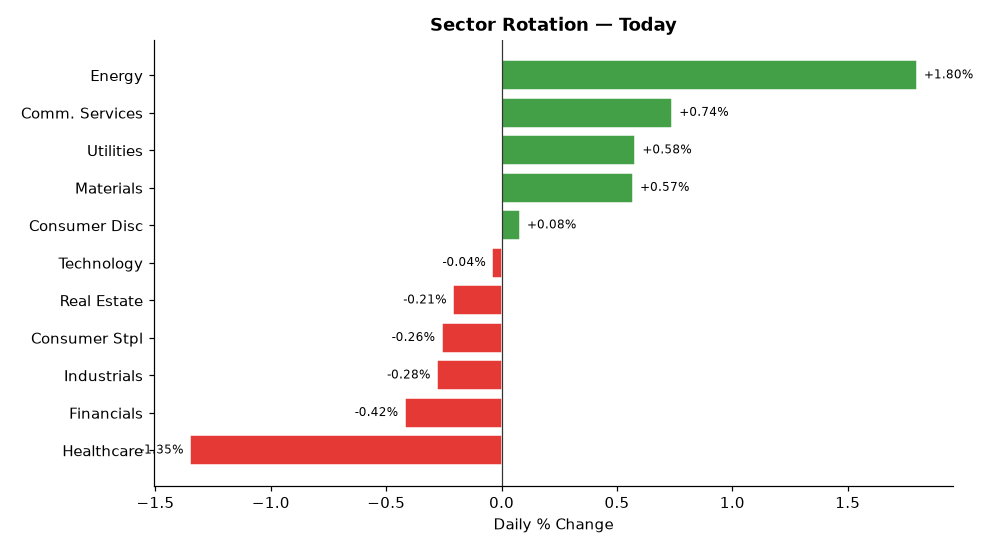
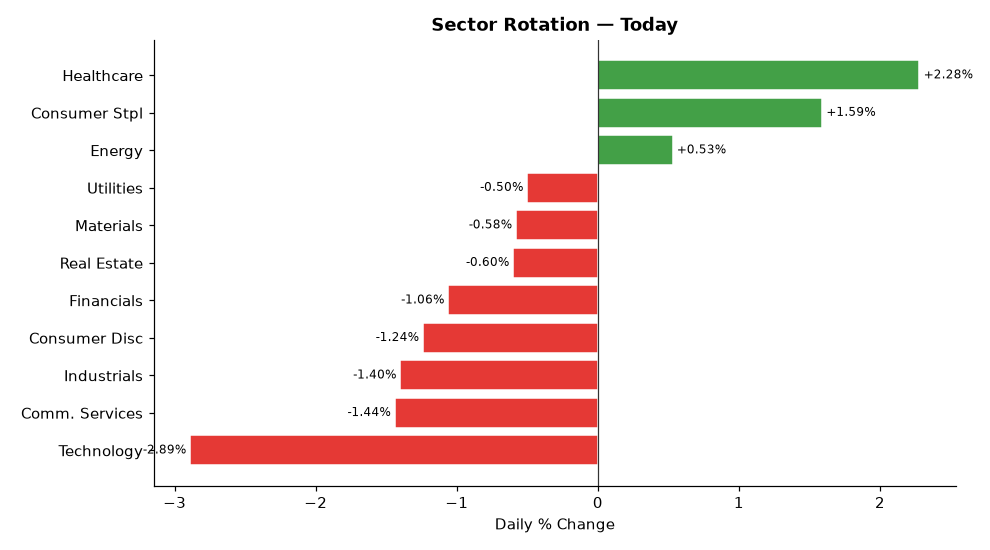
deploy: b7fadf5b06deb90e7ebb92f278722414bdd9750d

diff --git a/index.html b/index.html
@@ -4,7 +4,7 @@
   <meta charset="UTF-8">
   <meta name="viewport" content="width=device-width,initial-scale=1">
   <meta http-equiv="Cache-Control" content="no-cache,no-store,must-revalidate">
-  <title>Stock Breakout Screener — 2026-10-14 04:18</title>
+  <title>Stock Breakout Screener — 2026-10-14 17:45</title>
   <style>
     *{box-sizing:border-box;margin:0;padding:0}
     body{font-family:'Segoe UI',Arial,sans-serif;background:#f0f2f5;
@@ -34,7 +34,7 @@
 
 <div class="hdr">
   <h1>📈 Stock Breakout Screener</h1>
-  <p>Updated: 2026-10-14 04:18 UTC &nbsp;·&nbsp; Phase: Pre-Market (before 9:30 AM ET) &nbsp;·&nbsp;
+  <p>Updated: 2026-10-14 17:45 UTC &nbsp;·&nbsp; Phase: Regular Market Hours &nbsp;·&nbsp;
      129 stocks screened &nbsp;·&nbsp; Top 5 by conviction score</p>
 </div>
 
@@ -60,16 +60,16 @@
           <div style="display:flex;align-items:center;gap:10px;
                       flex-wrap:wrap;margin-bottom:10px">
             <span style="font-size:22px">🟢</span>
-            <span style="font-size:19px;font-weight:700">1. VLO</span>
-            <span style="font-size:12px;color:#666">Energy</span>
+            <span style="font-size:19px;font-weight:700">1. PFE</span>
+            <span style="font-size:12px;color:#666">Healthcare</span>
             <span style="margin-left:auto;background:#1a237e;color:#fff;
                          padding:3px 12px;border-radius:12px;
                          font-size:13px;font-weight:600">
-              13/17
+              12/17
             </span>
           </div>
           <ul style="margin:0;padding-left:18px;font-size:13px;
-                     color:#333;line-height:1.8"><li style="margin:5px 0"><span style="background:#ffebee;color:#b71c1c;padding:2px 7px;border-radius:4px;font-size:11px;">❌</span> Volume: <b>0.8× average</b> — Above-average activity</li><li style="margin:5px 0"><span style="background:#e8f5e9;color:#2e7d32;padding:2px 7px;border-radius:4px;font-size:11px;">✅</span> Candle: close <b>$456.46</b> vs open <b>$440.00</b> (+3.7%) — regular market close</li><li style="margin:5px 0"><span style="background:#e8f5e9;color:#2e7d32;padding:2px 7px;border-radius:4px;font-size:11px;">✅</span> 200-Day MA: price <b>$456.46</b> vs MA <b>$304.49</b> — <b>✅ Above</b> long-term trend</li><li style="margin:5px 0"><span style="background:#e8f5e9;color:#2e7d32;padding:2px 7px;border-radius:4px;font-size:11px;">✅</span> Inst. ownership: <b>87.1%</b> · MFI: <b>74.6</b> · Market cap: <b>$131.4B</b></li></ul>
+                     color:#333;line-height:1.8"><li style="margin:5px 0"><span style="background:#ffebee;color:#b71c1c;padding:2px 7px;border-radius:4px;font-size:11px;">❌</span> Volume: <b>0.6× average</b> — Above-average activity</li><li style="margin:5px 0"><span style="background:#e8f5e9;color:#2e7d32;padding:2px 7px;border-radius:4px;font-size:11px;">✅</span> Candle: close <b>$29.48</b> vs open <b>$28.60</b> (+3.1%) — regular market close</li><li style="margin:5px 0"><span style="background:#e8f5e9;color:#2e7d32;padding:2px 7px;border-radius:4px;font-size:11px;">✅</span> 200-Day MA: price <b>$29.48</b> vs MA <b>$26.14</b> — <b>✅ Above</b> long-term trend</li><li style="margin:5px 0"><span style="background:#e8f5e9;color:#2e7d32;padding:2px 7px;border-radius:4px;font-size:11px;">✅</span> Inst. ownership: <b>69.1%</b> · MFI: <b>50.6</b> · Market cap: <b>$168.0B</b></li></ul>
         </div>
         <div style="background:#fff;border:1px solid #ddd;border-radius:10px;
                     padding:16px 20px;margin-bottom:12px;
@@ -77,8 +77,8 @@
           <div style="display:flex;align-items:center;gap:10px;
                       flex-wrap:wrap;margin-bottom:10px">
             <span style="font-size:22px">🟡</span>
-            <span style="font-size:19px;font-weight:700">2. META</span>
-            <span style="font-size:12px;color:#666">Comm. Services</span>
+            <span style="font-size:19px;font-weight:700">2. UNH</span>
+            <span style="font-size:12px;color:#666">Healthcare</span>
             <span style="margin-left:auto;background:#1a237e;color:#fff;
                          padding:3px 12px;border-radius:12px;
                          font-size:13px;font-weight:600">
@@ -86,7 +86,7 @@
             </span>
           </div>
           <ul style="margin:0;padding-left:18px;font-size:13px;
-                     color:#333;line-height:1.8"><li style="margin:5px 0"><span style="background:#ffebee;color:#b71c1c;padding:2px 7px;border-radius:4px;font-size:11px;">❌</span> Volume: <b>1.2× average</b> — Above-average activity</li><li style="margin:5px 0"><span style="background:#e8f5e9;color:#2e7d32;padding:2px 7px;border-radius:4px;font-size:11px;">✅</span> Candle: close <b>$762.50</b> vs open <b>$735.99</b> (+3.6%) — regular market close</li><li style="margin:5px 0"><span style="background:#e8f5e9;color:#2e7d32;padding:2px 7px;border-radius:4px;font-size:11px;">✅</span> 200-Day MA: price <b>$762.50</b> vs MA <b>$626.57</b> — <b>✅ Above</b> long-term trend</li><li style="margin:5px 0"><span style="background:#e8f5e9;color:#2e7d32;padding:2px 7px;border-radius:4px;font-size:11px;">✅</span> Inst. ownership: <b>79.0%</b> · MFI: <b>58.5</b> · Market cap: <b>$1942.5B</b></li><li style="margin:5px 0"><span style="background:#fffde7;color:#f57f17;padding:2px 7px;border-radius:4px;font-size:11px;">⚠</span> Last similar breakout: <b>Sep 21, 2026</b> → <b>+0.1%</b> over 10 trading days</li></ul>
+                     color:#333;line-height:1.8"><li style="margin:5px 0"><span style="background:#ffebee;color:#b71c1c;padding:2px 7px;border-radius:4px;font-size:11px;">❌</span> Volume: <b>0.7× average</b> — Above-average activity</li><li style="margin:5px 0"><span style="background:#ffebee;color:#b71c1c;padding:2px 7px;border-radius:4px;font-size:11px;">❌</span> Candle: close <b>$390.11</b> vs open <b>$382.29</b> (+2.0%) — regular market close</li><li style="margin:5px 0"><span style="background:#e8f5e9;color:#2e7d32;padding:2px 7px;border-radius:4px;font-size:11px;">✅</span> 200-Day MA: price <b>$390.11</b> vs MA <b>$389.02</b> — <b>✅ Above</b> long-term trend</li><li style="margin:5px 0"><span style="background:#e8f5e9;color:#2e7d32;padding:2px 7px;border-radius:4px;font-size:11px;">✅</span> Inst. ownership: <b>89.7%</b> · MFI: <b>68.2</b> · Market cap: <b>$350.0B</b></li></ul>
         </div>
         <div style="background:#fff;border:1px solid #ddd;border-radius:10px;
                     padding:16px 20px;margin-bottom:12px;
@@ -94,8 +94,8 @@
           <div style="display:flex;align-items:center;gap:10px;
                       flex-wrap:wrap;margin-bottom:10px">
             <span style="font-size:22px">🟡</span>
-            <span style="font-size:19px;font-weight:700">3. XOM</span>
-            <span style="font-size:12px;color:#666">Energy</span>
+            <span style="font-size:19px;font-weight:700">3. MRK</span>
+            <span style="font-size:12px;color:#666">Healthcare</span>
             <span style="margin-left:auto;background:#1a237e;color:#fff;
                          padding:3px 12px;border-radius:12px;
                          font-size:13px;font-weight:600">
@@ -103,7 +103,7 @@
             </span>
           </div>
           <ul style="margin:0;padding-left:18px;font-size:13px;
-                     color:#333;line-height:1.8"><li style="margin:5px 0"><span style="background:#ffebee;color:#b71c1c;padding:2px 7px;border-radius:4px;font-size:11px;">❌</span> Volume: <b>0.7× average</b> — Above-average activity</li><li style="margin:5px 0"><span style="background:#ffebee;color:#b71c1c;padding:2px 7px;border-radius:4px;font-size:11px;">❌</span> Candle: close <b>$174.08</b> vs open <b>$173.45</b> (+0.4%) — regular market close</li><li style="margin:5px 0"><span style="background:#e8f5e9;color:#2e7d32;padding:2px 7px;border-radius:4px;font-size:11px;">✅</span> 200-Day MA: price <b>$174.08</b> vs MA <b>$152.91</b> — <b>✅ Above</b> long-term trend</li><li style="margin:5px 0"><span style="background:#e8f5e9;color:#2e7d32;padding:2px 7px;border-radius:4px;font-size:11px;">✅</span> Inst. ownership: <b>67.2%</b> · MFI: <b>71.8</b> · Market cap: <b>$715.8B</b></li></ul>
+                     color:#333;line-height:1.8"><li style="margin:5px 0"><span style="background:#ffebee;color:#b71c1c;padding:2px 7px;border-radius:4px;font-size:11px;">❌</span> Volume: <b>0.5× average</b> — Above-average activity</li><li style="margin:5px 0"><span style="background:#e8f5e9;color:#2e7d32;padding:2px 7px;border-radius:4px;font-size:11px;">✅</span> Candle: close <b>$147.90</b> vs open <b>$143.10</b> (+3.4%) — regular market close</li><li style="margin:5px 0"><span style="background:#e8f5e9;color:#2e7d32;padding:2px 7px;border-radius:4px;font-size:11px;">✅</span> 200-Day MA: price <b>$147.90</b> vs MA <b>$128.54</b> — <b>✅ Above</b> long-term trend</li><li style="margin:5px 0"><span style="background:#e8f5e9;color:#2e7d32;padding:2px 7px;border-radius:4px;font-size:11px;">✅</span> Inst. ownership: <b>83.0%</b> · MFI: <b>38.9</b> · Market cap: <b>$364.9B</b></li><li style="margin:5px 0"><span style="background:#ffebee;color:#b71c1c;padding:2px 7px;border-radius:4px;font-size:11px;">❌</span> Last similar breakout: <b>Aug 19, 2026</b> → <b>-0.4%</b> over 10 trading days</li></ul>
         </div>
         <div style="background:#fff;border:1px solid #ddd;border-radius:10px;
                     padding:16px 20px;margin-bottom:12px;
@@ -111,8 +111,8 @@
           <div style="display:flex;align-items:center;gap:10px;
                       flex-wrap:wrap;margin-bottom:10px">
             <span style="font-size:22px">🟡</span>
-            <span style="font-size:19px;font-weight:700">4. CVX</span>
-            <span style="font-size:12px;color:#666">Energy</span>
+            <span style="font-size:19px;font-weight:700">4. ABBV</span>
+            <span style="font-size:12px;color:#666">Healthcare</span>
             <span style="margin-left:auto;background:#1a237e;color:#fff;
                          padding:3px 12px;border-radius:12px;
                          font-size:13px;font-weight:600">
@@ -120,7 +120,7 @@
             </span>
           </div>
           <ul style="margin:0;padding-left:18px;font-size:13px;
-                     color:#333;line-height:1.8"><li style="margin:5px 0"><span style="background:#ffebee;color:#b71c1c;padding:2px 7px;border-radius:4px;font-size:11px;">❌</span> Volume: <b>0.8× average</b> — Above-average activity</li><li style="margin:5px 0"><span style="background:#ffebee;color:#b71c1c;padding:2px 7px;border-radius:4px;font-size:11px;">❌</span> Candle: close <b>$217.73</b> vs open <b>$217.00</b> (+0.3%) — regular market close</li><li style="margin:5px 0"><span style="background:#e8f5e9;color:#2e7d32;padding:2px 7px;border-radius:4px;font-size:11px;">✅</span> 200-Day MA: price <b>$217.73</b> vs MA <b>$191.24</b> — <b>✅ Above</b> long-term trend</li><li style="margin:5px 0"><span style="background:#e8f5e9;color:#2e7d32;padding:2px 7px;border-radius:4px;font-size:11px;">✅</span> Inst. ownership: <b>71.2%</b> · MFI: <b>74.7</b> · Market cap: <b>$427.1B</b></li></ul>
+                     color:#333;line-height:1.8"><li style="margin:5px 0"><span style="background:#ffebee;color:#b71c1c;padding:2px 7px;border-radius:4px;font-size:11px;">❌</span> Volume: <b>0.3× average</b> — Above-average activity</li><li style="margin:5px 0"><span style="background:#ffebee;color:#b71c1c;padding:2px 7px;border-radius:4px;font-size:11px;">❌</span> Candle: close <b>$285.12</b> vs open <b>$277.00</b> (+2.9%) — regular market close</li><li style="margin:5px 0"><span style="background:#e8f5e9;color:#2e7d32;padding:2px 7px;border-radius:4px;font-size:11px;">✅</span> 200-Day MA: price <b>$285.12</b> vs MA <b>$239.74</b> — <b>✅ Above</b> long-term trend</li><li style="margin:5px 0"><span style="background:#e8f5e9;color:#2e7d32;padding:2px 7px;border-radius:4px;font-size:11px;">✅</span> Inst. ownership: <b>77.3%</b> · MFI: <b>60.2</b> · Market cap: <b>$504.0B</b></li><li style="margin:5px 0"><span style="background:#ffebee;color:#b71c1c;padding:2px 7px;border-radius:4px;font-size:11px;">❌</span> Last similar breakout: <b>Jun 26, 2026</b> → <b>-2.1%</b> over 10 trading days</li></ul>
         </div>
         <div style="background:#fff;border:1px solid #ddd;border-radius:10px;
                     padding:16px 20px;margin-bottom:12px;
@@ -128,16 +128,16 @@
           <div style="display:flex;align-items:center;gap:10px;
                       flex-wrap:wrap;margin-bottom:10px">
             <span style="font-size:22px">🟡</span>
-            <span style="font-size:19px;font-weight:700">5. WMB</span>
-            <span style="font-size:12px;color:#666">Energy</span>
+            <span style="font-size:19px;font-weight:700">5. MSFT</span>
+            <span style="font-size:12px;color:#666">Technology</span>
             <span style="margin-left:auto;background:#1a237e;color:#fff;
                          padding:3px 12px;border-radius:12px;
                          font-size:13px;font-weight:600">
-              11/17
+              10/17
             </span>
           </div>
           <ul style="margin:0;padding-left:18px;font-size:13px;
-                     color:#333;line-height:1.8"><li style="margin:5px 0"><span style="background:#ffebee;color:#b71c1c;padding:2px 7px;border-radius:4px;font-size:11px;">❌</span> Volume: <b>1.0× average</b> — Above-average activity</li><li style="margin:5px 0"><span style="background:#ffebee;color:#b71c1c;padding:2px 7px;border-radius:4px;font-size:11px;">❌</span> Candle: close <b>$74.57</b> vs open <b>$74.42</b> (+0.2%) — regular market close</li><li style="margin:5px 0"><span style="background:#e8f5e9;color:#2e7d32;padding:2px 7px;border-radius:4px;font-size:11px;">✅</span> 200-Day MA: price <b>$74.57</b> vs MA <b>$72.50</b> — <b>✅ Above</b> long-term trend</li><li style="margin:5px 0"><span style="background:#e8f5e9;color:#2e7d32;padding:2px 7px;border-radius:4px;font-size:11px;">✅</span> Inst. ownership: <b>91.5%</b> · MFI: <b>61.7</b> · Market cap: <b>$91.2B</b></li></ul>
+                     color:#333;line-height:1.8"><li style="margin:5px 0"><span style="background:#ffebee;color:#b71c1c;padding:2px 7px;border-radius:4px;font-size:11px;">❌</span> Volume: <b>0.3× average</b> — Above-average activity</li><li style="margin:5px 0"><span style="background:#ffebee;color:#b71c1c;padding:2px 7px;border-radius:4px;font-size:11px;">❌</span> Candle: close <b>$535.10</b> vs open <b>$545.15</b> (-1.8%) — regular market close</li><li style="margin:5px 0"><span style="background:#e8f5e9;color:#2e7d32;padding:2px 7px;border-radius:4px;font-size:11px;">✅</span> 200-Day MA: price <b>$535.10</b> vs MA <b>$444.45</b> — <b>✅ Above</b> long-term trend</li><li style="margin:5px 0"><span style="background:#e8f5e9;color:#2e7d32;padding:2px 7px;border-radius:4px;font-size:11px;">✅</span> Inst. ownership: <b>75.8%</b> · MFI: <b>77.9</b> · Market cap: <b>$3974.4B</b></li><li style="margin:5px 0"><span style="background:#e8f5e9;color:#2e7d32;padding:2px 7px;border-radius:4px;font-size:11px;">✅</span> Last similar breakout: <b>Jul 30, 2026</b> → <b>+10.1%</b> over 10 trading days</li></ul>
         </div>
 
 
@@ -168,93 +168,93 @@
   
         <tr>
           <td style="font-weight:700;text-align:left;padding-left:10px">
-            🟢 VLO</td>
-          <td style="background:#ffcdd2">0.8×</td>
-          <td style="background:#c8e6c9">+3.7%</td>
+            🟢 PFE</td>
+          <td style="background:#ffcdd2">0.6×</td>
+          <td style="background:#c8e6c9">+3.1%</td>
           <td style="background:#c8e6c9">
             ▲ Above</td>
           <td style="background:#c8e6c9">
-            87.1%</td>
+            69.1%</td>
+          <td style="background:#fff9c4">
+            50.6</td>
+          <td style="background:#c8e6c9">Healthcare</td>
           <td style="background:#c8e6c9">
-            74.6</td>
-          <td style="background:#c8e6c9">Energy</td>
-          <td style="background:#c8e6c9">
-            120.3%</td>
+            111.9%</td>
           <td style="background:#ffcdd2">
             N/A</td>
-          <td style="font-weight:800;font-size:15px">13/17</td>
+          <td style="font-weight:800;font-size:15px">12/17</td>
         </tr>
         <tr>
           <td style="font-weight:700;text-align:left;padding-left:10px">
-            🟡 META</td>
-          <td style="background:#ffcdd2">1.2×</td>
-          <td style="background:#c8e6c9">+3.6%</td>
-          <td style="background:#c8e6c9">
-            ▲ Above</td>
-          <td style="background:#c8e6c9">
-            79.0%</td>
-          <td style="background:#fff9c4">
-            58.5</td>
-          <td style="background:#fff9c4">Comm. Services</td>
-          <td style="background:#c8e6c9">
-            120.3%</td>
-          <td style="background:#fff9c4">
-            +0.1%</td>
-          <td style="font-weight:800;font-size:15px">11/17</td>
-        </tr>
-        <tr>
-          <td style="font-weight:700;text-align:left;padding-left:10px">
-            🟡 XOM</td>
+            🟡 UNH</td>
           <td style="background:#ffcdd2">0.7×</td>
-          <td style="background:#ffcdd2">+0.4%</td>
+          <td style="background:#ffcdd2">+2.0%</td>
           <td style="background:#c8e6c9">
             ▲ Above</td>
           <td style="background:#c8e6c9">
-            67.2%</td>
+            89.7%</td>
           <td style="background:#c8e6c9">
-            71.8</td>
-          <td style="background:#c8e6c9">Energy</td>
+            68.2</td>
+          <td style="background:#c8e6c9">Healthcare</td>
           <td style="background:#c8e6c9">
-            122.4%</td>
+            93.0%</td>
           <td style="background:#ffcdd2">
             N/A</td>
           <td style="font-weight:800;font-size:15px">11/17</td>
         </tr>
         <tr>
           <td style="font-weight:700;text-align:left;padding-left:10px">
-            🟡 CVX</td>
-          <td style="background:#ffcdd2">0.8×</td>
-          <td style="background:#ffcdd2">+0.3%</td>
+            🟡 MRK</td>
+          <td style="background:#ffcdd2">0.5×</td>
+          <td style="background:#c8e6c9">+3.4%</td>
           <td style="background:#c8e6c9">
             ▲ Above</td>
           <td style="background:#c8e6c9">
-            71.2%</td>
-          <td style="background:#c8e6c9">
-            74.7</td>
-          <td style="background:#c8e6c9">Energy</td>
-          <td style="background:#c8e6c9">
-            104.7%</td>
+            83.0%</td>
           <td style="background:#ffcdd2">
-            N/A</td>
+            38.9</td>
+          <td style="background:#c8e6c9">Healthcare</td>
+          <td style="background:#c8e6c9">
+            112.3%</td>
+          <td style="background:#ffcdd2">
+            -0.4%</td>
           <td style="font-weight:800;font-size:15px">11/17</td>
         </tr>
         <tr>
           <td style="font-weight:700;text-align:left;padding-left:10px">
-            🟡 WMB</td>
-          <td style="background:#ffcdd2">1.0×</td>
-          <td style="background:#ffcdd2">+0.2%</td>
+            🟡 ABBV</td>
+          <td style="background:#ffcdd2">0.3×</td>
+          <td style="background:#ffcdd2">+2.9%</td>
           <td style="background:#c8e6c9">
             ▲ Above</td>
           <td style="background:#c8e6c9">
-            91.5%</td>
+            77.3%</td>
           <td style="background:#c8e6c9">
-            61.7</td>
-          <td style="background:#c8e6c9">Energy</td>
+            60.2</td>
+          <td style="background:#c8e6c9">Healthcare</td>
           <td style="background:#c8e6c9">
-            120.3%</td>
+            63.0%</td>
           <td style="background:#ffcdd2">
-            N/A</td>
+            -2.1%</td>
           <td style="font-weight:800;font-size:15px">11/17</td>
+        </tr>
+        <tr>
+          <td style="font-weight:700;text-align:left;padding-left:10px">
+            🟡 MSFT</td>
+          <td style="background:#ffcdd2">0.3×</td>
+          <td style="background:#ffcdd2">-1.8%</td>
+          <td style="background:#c8e6c9">
+            ▲ Above</td>
+          <td style="background:#c8e6c9">
+            75.8%</td>
+          <td style="background:#c8e6c9">
+            77.9</td>
+          <td style="background:#ffcdd2">Technology</td>
+          <td style="background:#c8e6c9">
+            87.2%</td>
+          <td style="background:#c8e6c9">
+            +10.1%</td>
+          <td style="font-weight:800;font-size:15px">10/17</td>
         </tr>
 </table>
 </div>
@@ -277,58 +277,58 @@
       
         <tr>
           <td style="text-align:left;padding-left:10px;font-weight:600">
-            #1 Energy</td>
-          <td style="background:#e8f5e9;color:#2e7d32;font-weight:700">+1.80%</td>
+            #1 Healthcare</td>
+          <td style="background:#e8f5e9;color:#2e7d32;font-weight:700">+2.28%</td>
         </tr>
         <tr>
           <td style="text-align:left;padding-left:10px;font-weight:600">
-            #2 Comm. Services</td>
-          <td style="background:#e8f5e9;color:#2e7d32;font-weight:700">+0.74%</td>
+            #2 Consumer Stpl</td>
+          <td style="background:#e8f5e9;color:#2e7d32;font-weight:700">+1.59%</td>
         </tr>
         <tr>
           <td style="text-align:left;padding-left:10px;font-weight:600">
-            #3 Utilities</td>
-          <td style="background:#e8f5e9;color:#2e7d32;font-weight:700">+0.58%</td>
+            #3 Energy</td>
+          <td style="background:#e8f5e9;color:#2e7d32;font-weight:700">+0.53%</td>
         </tr>
         <tr>
           <td style="text-align:left;padding-left:10px;font-weight:600">
-            #4 Materials</td>
-          <td style="background:#e8f5e9;color:#2e7d32;font-weight:700">+0.57%</td>
+            #4 Utilities</td>
+          <td style="background:#ffebee;color:#c62828;font-weight:700">-0.50%</td>
         </tr>
         <tr>
           <td style="text-align:left;padding-left:10px;font-weight:600">
-            #5 Consumer Disc</td>
-          <td style="background:#e8f5e9;color:#2e7d32;font-weight:700">+0.08%</td>
+            #5 Materials</td>
+          <td style="background:#ffebee;color:#c62828;font-weight:700">-0.58%</td>
         </tr>
         <tr>
           <td style="text-align:left;padding-left:10px;font-weight:600">
-            #6 Technology</td>
-          <td style="background:#ffebee;color:#c62828;font-weight:700">-0.04%</td>
+            #6 Real Estate</td>
+          <td style="background:#ffebee;color:#c62828;font-weight:700">-0.60%</td>
         </tr>
         <tr>
           <td style="text-align:left;padding-left:10px;font-weight:600">
-            #7 Real Estate</td>
-          <td style="background:#ffebee;color:#c62828;font-weight:700">-0.21%</td>
+            #7 Financials</td>
+          <td style="background:#ffebee;color:#c62828;font-weight:700">-1.06%</td>
         </tr>
         <tr>
           <td style="text-align:left;padding-left:10px;font-weight:600">
-            #8 Consumer Stpl</td>
-          <td style="background:#ffebee;color:#c62828;font-weight:700">-0.26%</td>
+            #8 Consumer Disc</td>
+          <td style="background:#ffebee;color:#c62828;font-weight:700">-1.24%</td>
         </tr>
         <tr>
           <td style="text-align:left;padding-left:10px;font-weight:600">
             #9 Industrials</td>
-          <td style="background:#ffebee;color:#c62828;font-weight:700">-0.28%</td>
+          <td style="background:#ffebee;color:#c62828;font-weight:700">-1.40%</td>
         </tr>
         <tr>
           <td style="text-align:left;padding-left:10px;font-weight:600">
-            #10 Financials</td>
-          <td style="background:#ffebee;color:#c62828;font-weight:700">-0.42%</td>
+            #10 Comm. Services</td>
+          <td style="background:#ffebee;color:#c62828;font-weight:700">-1.44%</td>
         </tr>
         <tr>
           <td style="text-align:left;padding-left:10px;font-weight:600">
-            #11 Healthcare</td>
-          <td style="background:#ffebee;color:#c62828;font-weight:700">-1.35%</td>
+            #11 Technology</td>
+          <td style="background:#ffebee;color:#c62828;font-weight:700">-2.89%</td>
         </tr>
     </table>
   </div>
@@ -367,7 +367,7 @@
         <li><b>Scoring weights:</b>
             Inst.Own(3) · Sector(3) · Volume(2) · Breakout(2) ·
             MA200(2) · MFI(2) · History(2) · IV(1) = 17pts max</li>
-        <li><b>Run time:</b> 2026-10-14 04:18 UTC — Market phase: Pre-Market (before 9:30 AM ET)</li>
+        <li><b>Run time:</b> 2026-10-14 17:45 UTC — Market phase: Regular Market Hours</li>
       </ul>
     </div>
 
